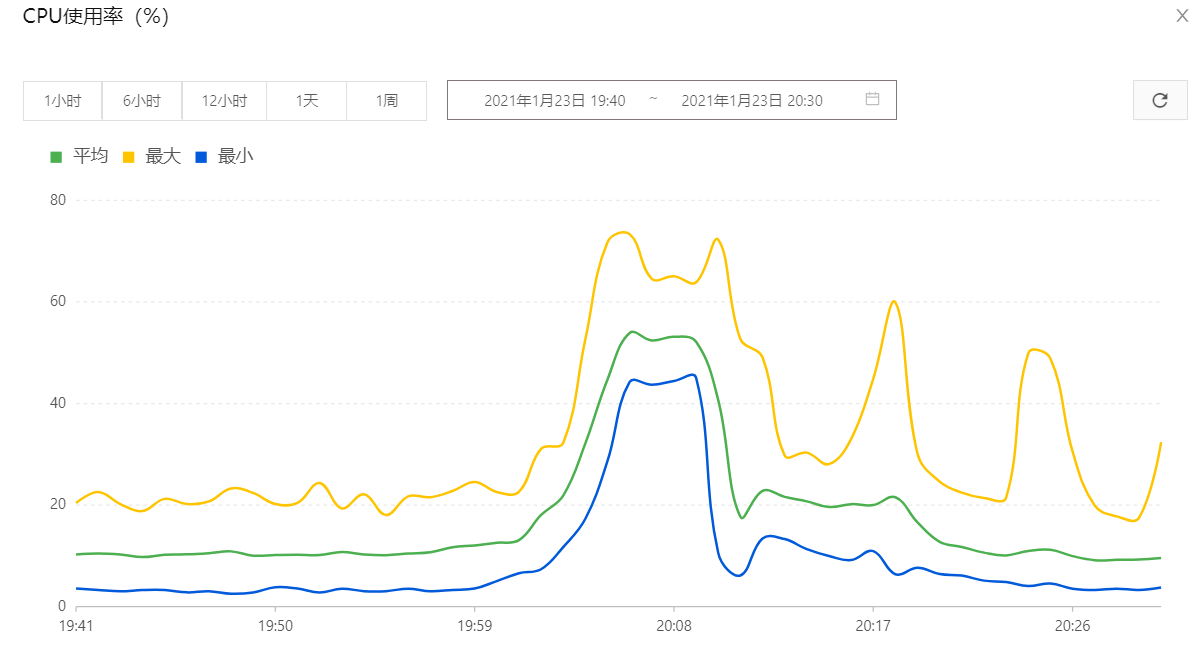
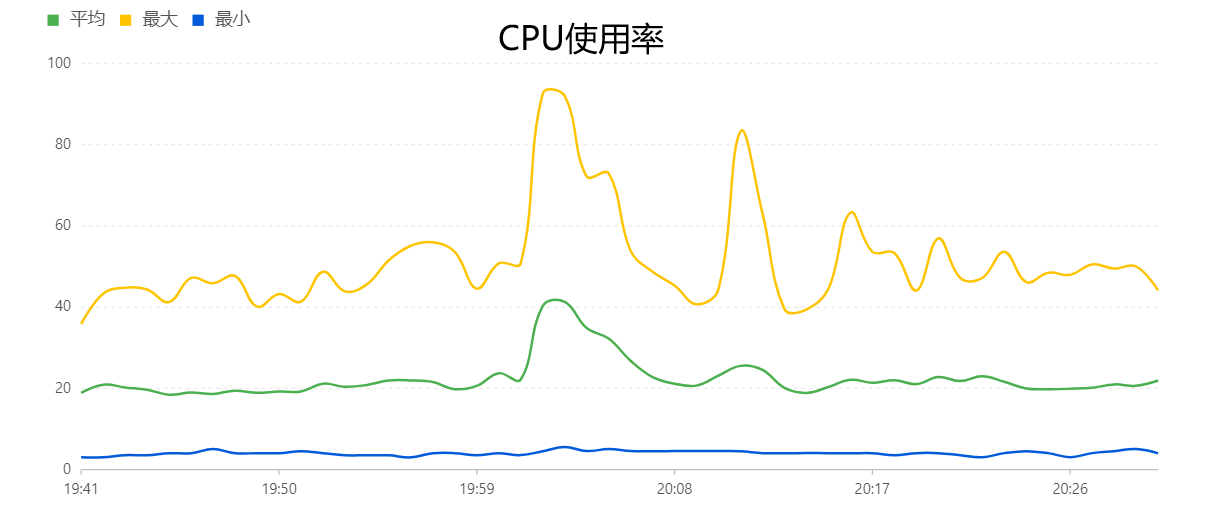
new post

diff --git a/illusory/content/post/redis/db-connection-pool-settings.md b/illusory/content/post/redis/db-connection-pool-settings.md
@@ -1,0 +1,270 @@
+---
+title: "数据库连接池该怎么设置?记一次由连接池引发的事故。"
+description: "数据库连接池对性能的影响及其正确设置姿势"
+date: 2021-01-23 22:00:00
+draft: false
+tags: ["Redis"]
+categories: ["Redis"]
+---
+
+本文主要记录了一次由 Redis 连接池设置不当引发的事故及其排查和解决过程，同时也记录了数据库连接池的正确设置姿势。
+
+<!--more-->
+
+## 1. 结论
+
+### 内存数据库
+
+像 Redis、Memcache 等内存数据库，因为所有请求直接在内存中完成所以处理速度很快。
+
+具体计算公式如下：
+
+```sh
+最大连接数 = 最大并发量 / (1000ms / 每次请求耗时ms)
+```
+
+所以我们需要知道集群最大并发量和应用中每次请求Redis来回的耗时。
+
+[Redis官网](https://redis.io/topics/benchmarks) 提供了压测工具。
+
+```sh
+root@redis://usr/sbin# redis-benchmark -q -n 100000
+PING_INLINE: 66269.05 requests per second
+PING_BULK: 68634.18 requests per second
+SET: 68399.45 requests per second
+GET: 67567.57 requests per second
+INCR: 68259.38 requests per second
+LPUSH: 67704.80 requests per second
+RPUSH: 68259.38 requests per second
+LPOP: 68399.45 requests per second
+RPOP: 68399.45 requests per second
+SADD: 68399.45 requests per second
+HSET: 67567.57 requests per second
+SPOP: 66844.91 requests per second
+LPUSH (needed to benchmark LRANGE): 50505.05 requests per second
+LRANGE_100 (first 100 elements): 65146.58 requests per second
+LRANGE_300 (first 300 elements): 67204.30 requests per second
+LRANGE_500 (first 450 elements): 67340.07 requests per second
+LRANGE_600 (first 600 elements): 67294.75 requests per second
+MSET (10 keys): 61576.36 requests per second
+```
+
+在我自己的小霸王服务器上都能用 六七万并发，所以单节点10W妥妥的有了。
+
+假设每次请求：来回网络延迟 + redis 处理耗时 为 1ms。
+
+那么 最大连接数 = 10W / (1000ms / 1ms) = 100，即同时用 100个连接就能达到 Redis QPS峰值，发挥出全部性能。
+
+
+
+**建议：最好能自己测试一下，实在测不了建议设置在 200 作用。**
+
+> 一般 Redis可用连接数都是按W计算的，稍微分配大一点也没什么问题，如果太小了就会无法发挥出 Redis 全部性能。
+
+
+
+### 磁盘数据库
+
+像 MySQL、PostgreSQL、Oracle 这样将数据存在磁盘上的数据库，由于磁盘I/O的存在，请求处理比较慢，连接池不能设置得像内存数据库那么大。
+
+PostgreSQL 提供了一个公式：
+
+```sh
+connections = ((core_count * 2) + effective_spindle_count)
+```
+
+如果说你的服务器 CPU 是 4核 的，连接池大小应该为 `((4*2)+1)=9`。取个整, 我们就设置为 10 吧。
+
+具体测试数据：[HikariCP 测试数据](https://github.com/brettwooldridge/HikariCP/wiki/About-Pool-Sizing)
+
+
+
+## 2. 问题背景
+
+最近处理了一个线上事故，就是由数据库连接池设置不当引发的。
+
+具体为，某一天的某一个时间点，客户开始反应接口响应很慢：
+
+* 大部分请求会直接阻塞到超时。
+* 小部分请求是响应比较慢；
+
+然后就开始了排查之旅。
+
+
+
+## 3. 排查过程
+
+### 寻找问题
+
+发现问题后，立马查看了监控、日志、链路追踪信息，具体如下：
+
+**服务器监控**
+
+* CPU、内存 飙升到 80% 左右，CPU 平常只有 20~30%在，而这些服务基本上是不会使用到太多内存的。
+* 负载直接到了 60，还只是4核CPU的机器，可以简单理解为：一般负载超过CPU核数就比较高了。
+
+![ecs-cpu][ecs-cpu]
+
+![ecs-mem][ecs-mem]
+
+![ecs-load][ecs-load]
+
+
+
+
+
+**日志**
+
+* 服务A：调用服务B超时
+* 服务B：调用服务C超时
+* 服务C：调用服务N超时 + 小部分 redis: connection pool timeout。
+* ...省略部分服务
+* 服务N：大量 redis: connection pool timeout
+
+
+
+**链路追踪**
+
+* 大部分接口都是到了超时时间(3S)才返回。
+
+
+
+### 定位问题
+
+将各个服务日志连起来查看后，问题都指向了 Redis，于是立马去查了 Redis 监控，结果发现一切正常；
+
+然后就去查了 redis 驱动的源码，看下这个错误提示是什么情况下出现的：
+
+```sh
+redis: connection pool timeout
+```
+
+相关代码如下：
+
+```go
+// Get 函数用于从Pool取一个 conn
+func (p *ConnPool) Get() (*Conn, error) {
+	if p.closed() {
+		return nil, ErrClosed
+	}
+
+	err := p.waitTurn()
+	if err != nil {
+		return nil, err
+	}
+// 省略
+}
+```
+
+```go
+func (p *ConnPool) waitTurn() error {
+   select {
+   case p.queue <- struct{}{}:
+      return nil
+   default:
+      timer := timers.Get().(*time.Timer)
+      timer.Reset(p.opt.PoolTimeout)
+
+      select {
+      case p.queue <- struct{}{}:
+         if !timer.Stop() {
+            <-timer.C
+         }
+         timers.Put(timer)
+         return nil
+      case <-timer.C:
+         timers.Put(timer)
+         atomic.AddUint32(&p.stats.Timeouts, 1)
+         return ErrPoolTimeout
+      }
+   }
+}
+```
+
+其中 waitTurn 函数返回的 ErrPoolTimeout 定义如下：
+
+```go
+var ErrPoolTimeout = errors.New("redis: connection pool timeout")
+```
+
+
+
+那么问题就很明显了，从 Redis 连接池里拿 conn 的时候超时，原因可能有下面几个：
+
+* 1）**连接池设置太小**，连接被其他Goroutine拿去使用了，没有来得及归还；
+* 2）Redis 性能瓶颈，导致每次请求要很长时间；
+* 3）网络延迟过大，同样有可能导致每次请求要很长时间。
+
+
+
+由于 Redis 监控一切正常，同时应用是在内网环境，网络延迟也特别低，所以是第一点可能性更高。
+
+然后立马查看了配置文件，果然，Redis 连接池只分配了 10个，然后超时时间居然是 10秒。将 Redis 连接池数量调大之后，一切问题都解决了。
+
+
+
+### 具体分析
+
+既然知道问题是 Redis 连接池设置太小了，那么一切都解释得通了。
+
+* 1）连接池过小导致大部分请求阻塞在获取连接这一步，一直阻塞到超时，打印错误日志并返回；
+* 2）该超时时间 10s 远大于设置的接口超时时间 3s，所以在阻塞 3s 后时候上游接口已经超时返回了；
+* 3）最终导致每个接口需要阻塞3s才返回。
+* 4）提现在服务器上就是：CPU、内存、负载飙升。
+
+
+
+之前由于并发量不是很高，10 个连接池也刚好能处理过来，最近并发量上升后该问题就暴露出来了。
+
+
+
+**为什么有小部分请求能响应？**
+
+由于是部署在 Kubernetes 集群中的，同时为每个 Pod 配置了 资源上限request 和 limit。cpu 都还好，到达上限后只会让应用跑得慢一点。但是内存就不一样了，超过之后直接 OOM，Pod 被强制 KIll 掉。
+
+Pod 重启后最初到达的部分请求可以获取到 Redis 连接，能正常返回。后续请求只能阻塞到超时了。
+
+
+
+补上两个 Redis 的 QPS 统计信息：
+
+调整连接池大小前：
+
+![redis-qps-before][redis-qps-before]
+
+调整连接池大小后：
+
+![redis-qps-after][redis-qps-after]
+
+可以看到，性能确实是被连接池给限制了，所以出现了这次事故。
+
+
+
+## 4. 小结
+
+* 1）连接池对性能影响很大，不能随意设置。
+* 2）K8s 中 Pod 资源限制需要合理分配，特别是内存，可以先设置大一点，然后根据统计数据逐渐调整到合适的值。
+* 3）APM 系统很重要
+  * logging：日志收集系统让你在出问题时不用去每台服务器上慢慢翻日志。
+  * tracing：链路追踪系统可以让你清楚的看到系统间各个服务的调用情况。
+  * metrics：监控系统各个指标，便于分析问题。
+* 4）配置中心：微服务一定要有一个配置中心，统一存放配置，否则很难维护。
+
+
+
+## 5. 参考
+
+`https://redis.io/topics/benchmarks`
+
+`https://github.com/brettwooldridge/HikariCP/wiki/About-Pool-Sizing`
+
+`https://zhuanlan.zhihu.com/p/105845455`
+
+
+
+[ecs-cpu]:https://github.com/lixd/blog/raw/master/images/redis/connections/ecs-cpu.png
+[ecs-mem]:https://github.com/lixd/blog/raw/master/images/redis/connections/ecs-mem.png
+[ecs-load]:https://github.com/lixd/blog/raw/master/images/redis/connections/ecs-load.png
+[redis-qps-befor]:https://github.com/lixd/blog/raw/master/images/redis/connections/redis-qps-before.png
+[redis-qps-after]:https://github.com/lixd/blog/raw/master/images/redis/connections/redis-qps-after.png
+
